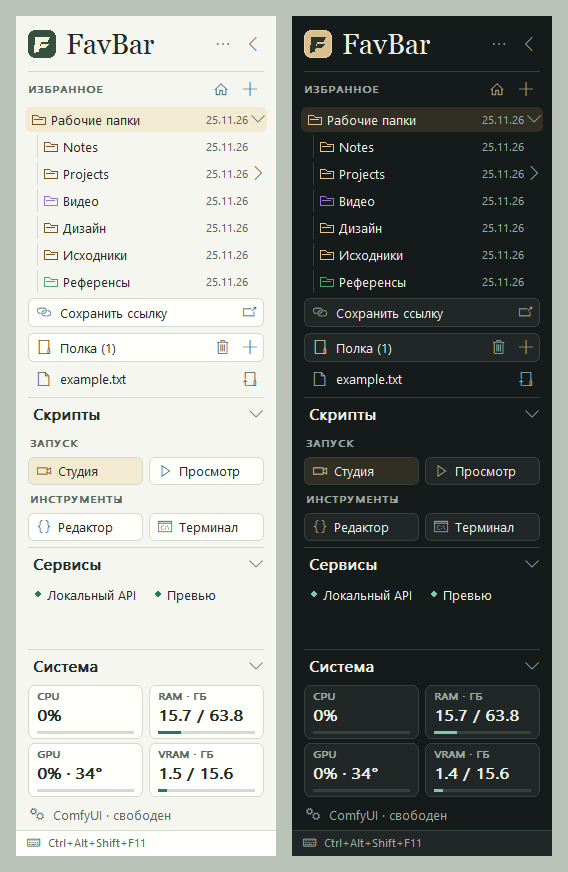
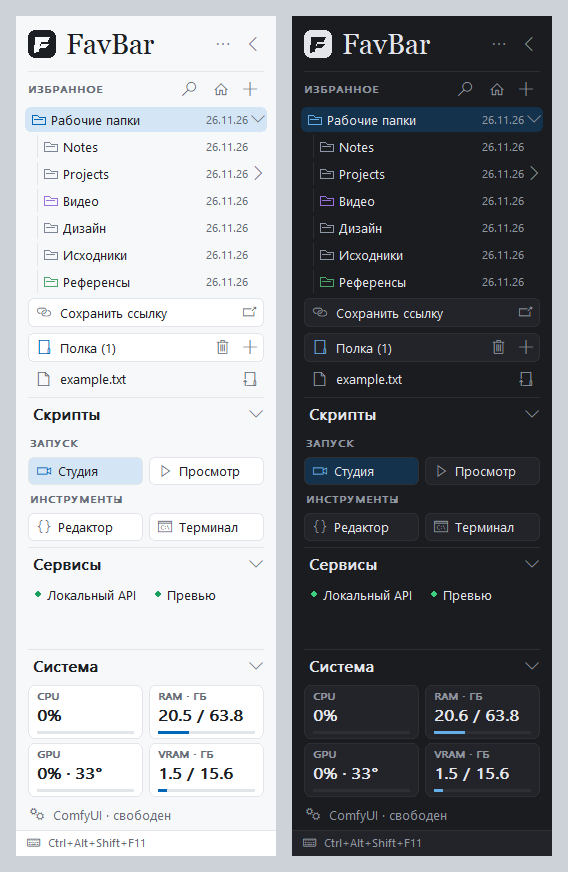
Restore the classic FavBar colors and Windows accent

diff --git a/native/windows.cpp b/native/windows.cpp
@@ -2,6 +2,7 @@
 #include <windows.h>
 
 #include <algorithm>
+#include <cmath>
 #include <commctrl.h>
 #include <commdlg.h>
 #include <cwchar>
@@ -68,8 +69,12 @@ void event(int kind, int row = -1, int side = 0, wstring data = {})
     events.push_back({kind, row, side, std::move(data)});
 }
 void colors();
+int paletteMode = -1;
 void palette(int mode)
 {
+    if (mode == paletteMode)
+        return;
+    paletteMode = mode;
     DWORD light = 1, bytes = sizeof(light);
     RegGetValueW(HKEY_CURRENT_USER, L"Software\\Microsoft\\Windows\\CurrentVersion\\Themes\\Personalize",
                  L"AppsUseLightTheme", RRF_RT_REG_DWORD, nullptr, &light, &bytes);
@@ -357,11 +362,11 @@ LRESULT CALLBACK proc(HWND h, UINT msg, WPARAM wp, LPARAM lp)
             InflateRect(&highlight, -dpi(4), -dpi(1));
             box(item->hDC, highlight, hoverFill, hoverFill, 6);
         }
-        COLORREF ink = entry.item.destructive ? (dark ? RGB(247, 164, 146) : RGB(148, 56, 43)) : fg;
+        COLORREF ink = entry.item.destructive ? errorColor : fg;
         if (entry.item.glyph)
             icon(item->hDC, {rect.left + dpi(11), rect.top, rect.left + dpi(31), rect.bottom}, entry.item.glyph,
                  entry.item.destructive ? ink
-                 : hot                  ? mint
+                 : hot                  ? accent
                                         : muted);
         rect.left += dpi(13 + entry.gutter);
         rect.right -= dpi(12);
@@ -401,7 +406,10 @@ LRESULT CALLBACK proc(HWND h, UINT msg, WPARAM wp, LPARAM lp)
         }
         event(5);
         return 0;
+    case WM_DWMCOLORIZATIONCOLORCHANGED:
     case WM_SETTINGCHANGE:
+        paletteMode = -1;
+        [[fallthrough]];
     case WM_DISPLAYCHANGE:
         if (window)
         {
@@ -702,9 +710,10 @@ extern "C"
     }
     void ui_finish(int theme)
     {
-        auto previous = bg;
+        auto oldBg = bg, oldAccent = accent, oldSelection = selectionFill;
         palette(theme);
-        if (previous != bg)
+        bool themeChanged = oldBg != bg || oldAccent != accent || oldSelection != selectionFill;
+        if (themeChanged)
         {
             refreshTimerTheme();
             if (strataDialog)
@@ -718,7 +727,7 @@ extern "C"
                    a.style == b.style && a.depth == b.depth && a.leftDetail == b.leftDetail &&
                    a.rightDetail == b.rightDetail;
         };
-        bool relayout = previous != bg || rows.size() != nextRows.size() ||
+        bool relayout = themeChanged || rows.size() != nextRows.size() ||
                         !std::equal(rows.begin(), rows.end(), nextRows.begin(),
                                     [](const Row &a, const Row &b) { return a.style == b.style; });
         if (!relayout && std::equal(rows.begin(), rows.end(), nextRows.begin(), same))

diff --git a/README.md b/README.md
@@ -4,6 +4,8 @@ FavBar — компактная боковая панель для Windows 10 и
 
 ![Светлая и тёмная темы FavBar при ширине 260 пикселей](assets/themes.png)
 
+Светлая и тёмная темы используют палитру классического FavBar. Цвет выделения берётся из настроек персонализации Windows.
+
 ## Запуск
 
 Скачайте **favbar-windows-x64.zip** со [страницы релизов](https://github.com/Hakoba/favbar/releases/latest), распакуйте и откройте **favbar.exe**. На первом запуске панель создаёт профиль в **%LOCALAPPDATA%\FavBar** и добавляет «Документы» в избранное. **Win + Shift + F** скрывает и возвращает панель. Для автозапуска положите ярлык EXE в папку **shell:startup**.
